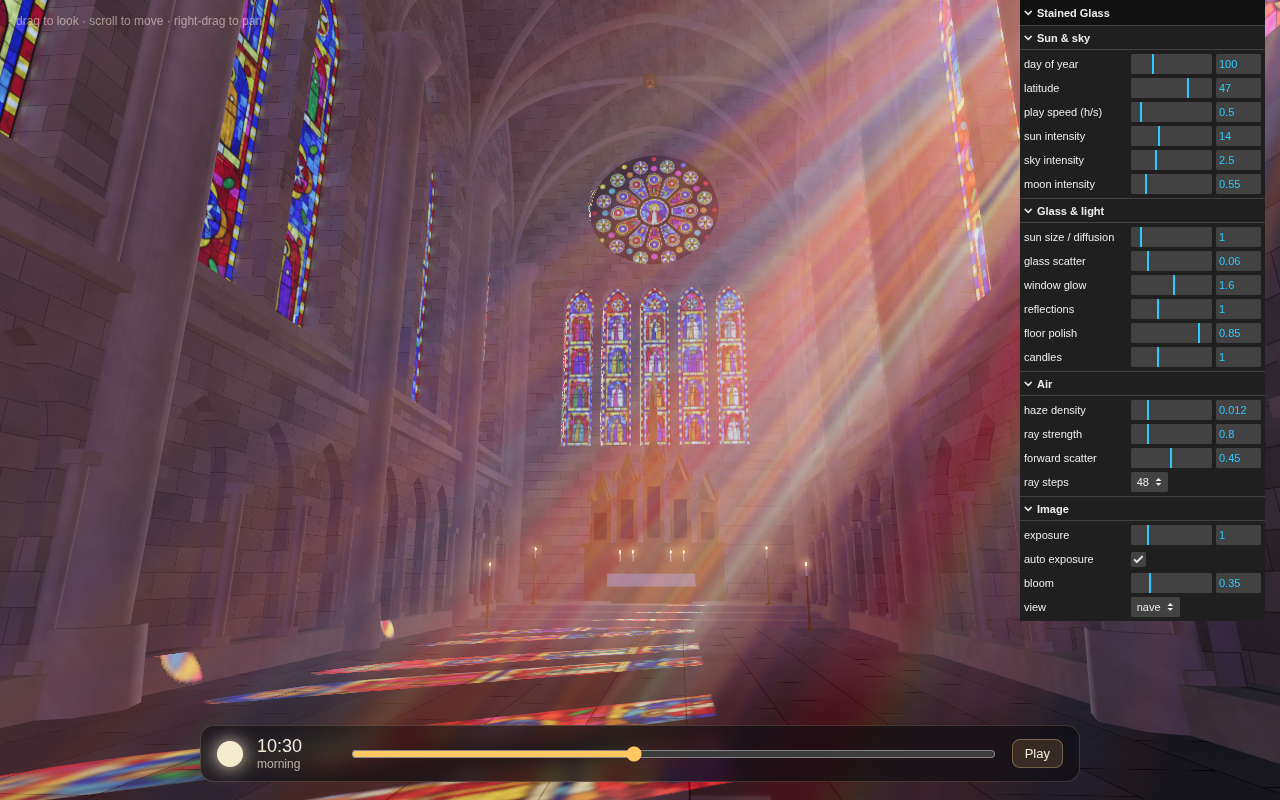
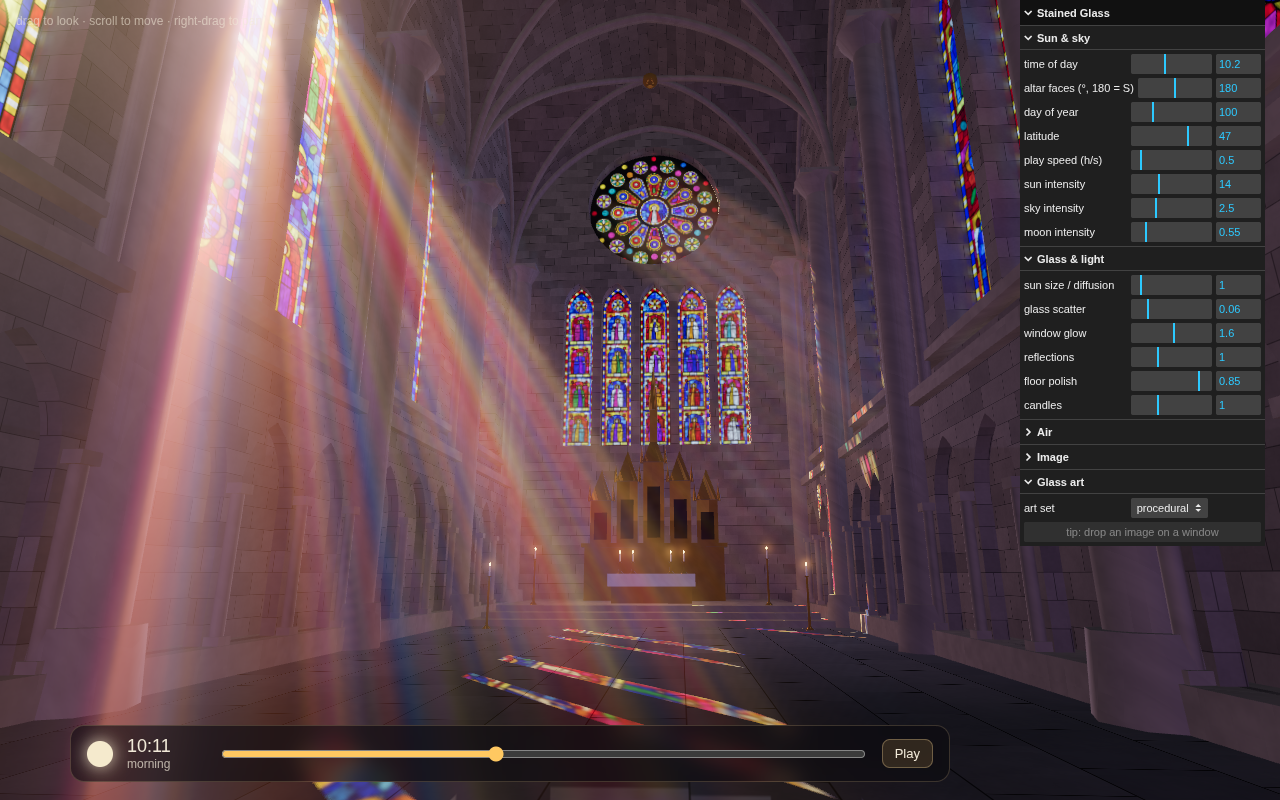
Fix black-frame flicker, add image glass slots, altar heading and panel time slider
- NaN from pow()/normalize() in the surface shader was smeared across the
  frame by bloom; guard the math and sanitise before bloom
- windows can show pictures: art sets via public/glass/manifest.json and
  drag-and-drop onto a window
- altar faces south by default so side and altar windows all get sun
- time-of-day slider in the panel; bottom bar no longer runs under the panel

diff --git a/src/main.js b/src/main.js
@@ -15,6 +15,8 @@ const state = {
   time: num('t', 10.5),
   dayOfYear: num('day', 100),
   latitude: num('lat', 47),
+  altarHeading: num('heading', 180), // compass bearing the altar end faces: 180 = south
+  art: q.get('art') ?? 'auto',
   playing: q.get('play') === '1',
   speed: 0.5,           // hours per second
   sunIntensity: 14,
@@ -46,8 +48,10 @@ const maxTex = renderer.capabilities.maxTextureSize;
 let ppm = num('ppm', 128);
 const widest = Math.max(...WALLS.map((w) => w.band.w));
 ppm = Math.min(ppm, Math.floor(maxTex / widest));
+// slot id -> image, for windows that show a picture instead of the procedural design
+const glassImages = new Map();
 const textures = WALLS.map((w) => {
-  const tex = new THREE.CanvasTexture(paintWall(w, ppm));
+  const tex = new THREE.CanvasTexture(paintWall(w, ppm, glassImages));
   tex.colorSpace = THREE.SRGBColorSpace;
   tex.generateMipmaps = true;
   tex.minFilter = THREE.LinearMipmapLinearFilter;
@@ -68,8 +72,8 @@ camera.layers.enable(1);
 const VIEWS = {
   nave: [[-9.5, 1.8, 1.2], [16, 8.5, -0.3]],
   floor: [[-6, 9, -5.5], [6, 0, 3]],
-  south: [[-4, 2.2, -6], [4, 11, 8]],
-  west: [[17, 2.0, -1.5], [-24, 11, 0]],
+  side: [[-4, 2.2, -6], [4, 11, 8]],
+  entrance: [[17, 2.0, -1.5], [-24, 11, 0]],
   rose: [[8, 3, 0], [24, 19, 0]],
   low: [[-3, 0.9, -2.5], [20, 6, 1]],
 };
@@ -106,6 +110,10 @@ function phaseName(sky) {
 function applyLighting() {
   const sky = computeSky(state.time, state.dayOfYear, state.latitude);
   const intensity = sky.isSun ? state.sunIntensity : state.moonIntensity;
+  // compass (east, up, south) -> building frame (+X = altar end)
+  const hd = THREE.MathUtils.degToRad(state.altarHeading);
+  const aE = Math.sin(hd), aS = -Math.cos(hd);
+  sky.dir.set(sky.dir.x * aE + sky.dir.z * aS, sky.dir.y, -sky.dir.x * aS + sky.dir.z * aE);
   lightU.uLightDir.value.copy(sky.dir);
   lightU.uLightColor.value.copy(sky.color).multiplyScalar(intensity);
   lightU.uLightSpread.value = SUN_ANGULAR_DIAMETER * state.softness;
@@ -150,6 +158,8 @@ syncPlay();
 
 const gui = new GUI({ title: 'Stained Glass' });
 const fSun = gui.addFolder('Sun & sky');
+fSun.add(state, 'time', 0, 24, 0.01).name('time of day').listen().onChange(applyLighting);
+fSun.add(state, 'altarHeading', 0, 360, 1).name('altar faces (°, 180 = S)').onChange(applyLighting);
 fSun.add(state, 'dayOfYear', 1, 365, 1).name('day of year').onChange(applyLighting);
 fSun.add(state, 'latitude', 0, 66, 0.5).onChange(applyLighting);
 fSun.add(state, 'speed', 0.05, 4, 0.05).name('play speed (h/s)');
@@ -173,8 +183,81 @@ fCam.add(state, 'exposure', 0.2, 4, 0.01).onChange(applyLighting);
 fCam.add(state, 'autoExposure').name('auto exposure').onChange(applyLighting);
 fCam.add(state, 'bloom', 0, 1.5, 0.01).onChange(applyLighting);
 fCam.add({ view: q.get('view') ?? 'nave' }, 'view', Object.keys(VIEWS)).onChange(setView);
+fAir.close(); fCam.close();
 if (q.get('ui') === '0') { gui.hide(); document.getElementById('bar').style.display = 'none'; document.getElementById('hint').style.display = 'none'; }
 else if (window.innerWidth < 700) gui.close();
+
+// --- swappable glass art ---------------------------------------------------------
+// public/glass/manifest.json lists picture sets; a set maps slot ids (layout.js
+// groups: right-1..6, left-1..6, altar-lancets, altar-rose, entrance-lancets,
+// entrance-rose) to image files. "side" is a list cycled over the 12 side bays.
+const loadImage = (src) => new Promise((res, rej) => { const im = new Image(); im.onload = () => res(im); im.onerror = () => rej(new Error('cannot load ' + src)); im.src = src; });
+function repaint(walls = WALLS) {
+  for (const w of walls) { const i = WALLS.indexOf(w); paintWall(w, ppm, glassImages, textures[i].image); textures[i].needsUpdate = true; }
+}
+let manifest = { sets: {} };
+async function applyArtSet(name) {
+  glassImages.clear();
+  const set = manifest.sets[name];
+  if (set) {
+    const slots = set.slots ?? {};
+    const side = slots.side ?? [];
+    const jobs = [];
+    for (const w of WALLS) for (const g of w.groups) {
+      let file = slots[g.id];
+      const m = /^(right|left)-(\d+)$/.exec(g.id);
+      if (!file && m && side.length) file = side[(Number(m[2]) - 1 + (m[1] === 'left' ? Math.ceil(side.length / 2) : 0)) % side.length];
+      if (file) jobs.push(loadImage('./glass/' + file).then((im) => glassImages.set(g.id, im), (e) => console.warn(e.message)));
+    }
+    await Promise.all(jobs);
+  }
+  repaint();
+}
+const artCtl = { set: 'procedural' };
+const fArt = gui.addFolder('Glass art');
+let artDropdown = fArt.add(artCtl, 'set', ['procedural']).name('art set').onChange(applyArtSet);
+fArt.add({ hint() {} }, 'hint').name('tip: drop an image on a window').disable();
+fetch('./glass/manifest.json').then((r) => (r.ok ? r.json() : manifest)).then((m) => {
+  manifest = m?.sets ? m : { sets: {} };
+  const names = Object.keys(manifest.sets);
+  artDropdown = artDropdown.options(['procedural', ...names]).name('art set').onChange(applyArtSet);
+  const want = state.art === 'auto' ? (m.default ?? names[0]) : state.art;
+  if (want && manifest.sets[want]) { artCtl.set = want; artDropdown.updateDisplay(); return applyArtSet(want); }
+}).catch((e) => console.warn('glass manifest:', e.message)).finally(() => { window.__artReady = true; });
+
+// Which image slot (window group) is under a screen point?
+const raycaster = new THREE.Raycaster();
+raycaster.layers.set(1);
+function slotAt(clientX, clientY) {
+  const r = canvas.getBoundingClientRect();
+  raycaster.setFromCamera(new THREE.Vector2(((clientX - r.left) / r.width) * 2 - 1, -((clientY - r.top) / r.height) * 2 + 1), camera);
+  const hit = raycaster.intersectObjects(group.children.filter((m) => m.name.startsWith('glass-')), false)[0];
+  if (!hit) return null;
+  const wall = WALLS.find((w) => 'glass-' + w.name === hit.object.name);
+  const u = wall.band.u0 + hit.uv.x * wall.band.w, v = wall.band.v0 + hit.uv.y * wall.band.h;
+  let best = null, bd = Infinity;
+  for (const g of wall.groups) {
+    const dx = Math.max(g.rect.u0 - u, 0, u - g.rect.u1), dy = Math.max(g.rect.v0 - v, 0, v - g.rect.v1);
+    const d = dx * dx + dy * dy;
+    if (d < bd) { bd = d; best = g; }
+  }
+  return best && { wall, group: best };
+}
+async function setSlotImage(slotId, src) {
+  const wall = WALLS.find((w) => w.groups.some((g) => g.id === slotId));
+  if (!wall) throw new Error('unknown slot ' + slotId);
+  if (src) glassImages.set(slotId, await loadImage(src)); else glassImages.delete(slotId);
+  repaint([wall]);
+}
+window.addEventListener('dragover', (e) => e.preventDefault());
+window.addEventListener('drop', async (e) => {
+  e.preventDefault();
+  const file = [...(e.dataTransfer?.files ?? [])].find((f) => f.type.startsWith('image/'));
+  const slot = file && slotAt(e.clientX, e.clientY);
+  if (!slot) return;
+  const url = URL.createObjectURL(file);
+  try { await setSlotImage(slot.group.id, url); } finally { URL.revokeObjectURL(url); }
+});
 
 window.addEventListener('resize', () => {
   renderer.setSize(window.innerWidth, window.innerHeight, false);
@@ -205,4 +288,4 @@ applyLighting();
 frame();
 
 // hooks for automation / debugging
-window.__sg = { state, applyLighting, setView, camera, controls, pipeline, lightU, renderer };
+window.__sg = { state, applyLighting, setView, camera, controls, pipeline, lightU, renderer, setSlotImage, applyArtSet, slotAt };

diff --git a/src/glassArt.js b/src/glassArt.js
@@ -429,13 +429,53 @@ function glassGrain(ctx, W, H, rng) {
   ctx.restore();
 }
 
-/** Paint one wall's glass band. Returns a canvas of band.w*ppm x band.h*ppm px. */
-export function paintWall(wall, ppm) {
+function openingPath(ctx, o) {
+  if (o.type === 'lancet') { lancetPath(ctx, o.u, o.v0, o.w, o.vs); return; }
+  ctx.beginPath(); ctx.arc(o.cu, o.cv, o.r, 0, Math.PI * 2);
+}
+
+// One picture stretched (cover-fit) across a group of openings. The wall's U
+// axis runs right-to-left as seen from inside, so the picture is mirrored in u
+// to read the right way round from the nave.
+function drawImageGroup(p, group, img) {
+  const c = p.ctx;
+  const { u0, u1, v0, v1 } = group.rect;
+  const gw = u1 - u0, gh = v1 - v0;
+  const iw = img.naturalWidth ?? img.width, ih = img.naturalHeight ?? img.height;
+  const scale = Math.max(gw / iw, gh / ih);
+  const dw = iw * scale, dh = ih * scale;
+  for (const o of group.openings) {
+    c.save();
+    openingPath(c, o); c.clip();
+    c.translate(u0 + gw / 2, v0 + gh / 2);
+    c.scale(-1, -1); // canvas is v-up; mirror u for the inside view
+    c.imageSmoothingEnabled = true; c.imageSmoothingQuality = 'high';
+    c.drawImage(img, -dw / 2, -dh / 2, dw, dh);
+    c.restore();
+    // iron saddle bars and a lead edge keep it reading as a leaded window
+    c.save();
+    openingPath(c, o); c.clip();
+    if (o.type === 'lancet') {
+      const n = Math.max(2, Math.round((o.vs - o.v0) / 1.1));
+      for (let k = 1; k < n; k++) p.line(o.u, o.v0 + ((o.vs - o.v0) * k) / n, o.u + o.w, o.v0 + ((o.vs - o.v0) * k) / n, LEAD * 1.2);
+    }
+    openingPath(c, o); c.strokeStyle = '#000'; c.lineWidth = LEAD * 4; c.stroke();
+    c.restore();
+  }
+}
+
+/**
+ * Paint one wall's glass band into `canvas` (created if omitted).
+ * `images` maps a group id (see layout.js) to a loaded image; groups without
+ * one get the procedural design. Returns the canvas (band.w*ppm x band.h*ppm).
+ */
+export function paintWall(wall, ppm, images = null, canvas = null) {
   const { band } = wall;
   const W = Math.round(band.w * ppm), H = Math.round(band.h * ppm);
-  const canvas = document.createElement('canvas');
+  canvas ??= document.createElement('canvas');
   canvas.width = W; canvas.height = H;
   const ctx = canvas.getContext('2d');
+  ctx.setTransform(1, 0, 0, 1, 0, 0);
   ctx.fillStyle = '#000';
   ctx.fillRect(0, 0, W, H);
   // draw in wall metres, v up; canvas top row = band.v1 (texture flipY keeps v up)
@@ -444,12 +484,15 @@ export function paintWall(wall, ppm) {
 
   const rng = mulberry32(wall.seed * 7919 + 13);
   const p = new Painter(ctx, rng);
-  let li = 0, ri = 0;
+  let li = 0;
   for (const o of wall.openings) {
+    // the procedural art is always drawn so the random sequence (and so every
+    // other window) stays identical when one slot is swapped for a picture
     if (o.type === 'lancet') drawLancet(p, o, li++);
-    else if (o.rose) drawRose(p, o, wall.name === 'east' ? 0 : 1 + ri++ * 0);
+    else if (o.rose) drawRose(p, o, wall.name === 'altar' ? 0 : 1);
     else drawOculus(p, o);
   }
   glassGrain(ctx, W, H, rng);
+  if (images) for (const g of wall.groups) { const img = images.get(g.id); if (img) drawImageGroup(p, g, img); }
   return canvas;
 }

diff --git a/src/layout.js b/src/layout.js
@@ -5,8 +5,8 @@
 import * as THREE from 'three';
 
 export const DIM = {
-  L: 48,          // inner length (x: -24 .. 24), west -> east
-  W: 16,          // inner width  (z: -8 .. 8),  north -> south
+  L: 48,          // inner length (x: -24 .. 24), entrance -> altar
+  W: 16,          // inner width  (z: -8 .. 8),  left wall -> right wall (facing the altar)
   wallT: 1.2,     // wall thickness
   wallH: 28.5,
   bays: 6,
@@ -59,36 +59,34 @@ function westOpenings() {
 
 export const WALLS = [
   {
-    name: 'south', seed: 11,
+    name: 'right', seed: 11,
     origin: new THREE.Vector3(-L / 2 - wallT, 0, W / 2), U: X.clone(), V: Y.clone(),
     width: L + 2 * wallT, height: DIM.wallH,
     openings: sideOpenings(),
   },
   {
-    name: 'north', seed: 23,
+    name: 'left', seed: 23,
     origin: new THREE.Vector3(L / 2 + wallT, 0, -W / 2), U: X.clone().negate(), V: Y.clone(),
     width: L + 2 * wallT, height: DIM.wallH,
     openings: sideOpenings(),
   },
   {
-    name: 'east', seed: 37,
+    name: 'altar', seed: 37,
     origin: new THREE.Vector3(L / 2, 0, W / 2), U: Z.clone().negate(), V: Y.clone(),
     width: W, height: DIM.wallH,
     openings: eastOpenings(),
   },
   {
-    name: 'west', seed: 53,
+    name: 'entrance', seed: 53,
     origin: new THREE.Vector3(-L / 2, 0, -W / 2), U: Z.clone(), V: Y.clone(),
     width: W, height: DIM.wallH,
     openings: westOpenings(),
   },
 ];
 
-for (const w of WALLS) {
-  w.N = new THREE.Vector3().crossVectors(w.U, w.V); // outward
-  // Glass band: the sub-rectangle of the wall that one texture covers.
+function bounds(openings) {
   let u0 = Infinity, u1 = -Infinity, v0 = Infinity, v1 = -Infinity;
-  for (const o of w.openings) {
+  for (const o of openings) {
     if (o.type === 'lancet') {
       u0 = Math.min(u0, o.u); u1 = Math.max(u1, o.u + o.w);
       v0 = Math.min(v0, o.v0); v1 = Math.max(v1, o.vs + o.w * 0.8661);
@@ -97,6 +95,22 @@ for (const w of WALLS) {
       v0 = Math.min(v0, o.cv - o.r); v1 = Math.max(v1, o.cv + o.r);
     }
   }
+  return { u0, u1, v0, v1 };
+}
+
+for (const w of WALLS) {
+  w.N = new THREE.Vector3().crossVectors(w.U, w.V); // outward
+  // Image slots: groups of openings that one picture can be stretched across
+  // (a side bay = two lancets + oculus; the lancet row; the rose).
+  const sets = new Map();
+  for (const o of w.openings) {
+    const id = o.bay !== undefined ? `${w.name}-${o.bay + 1}` : `${w.name}-${o.rose ? 'rose' : 'lancets'}`;
+    if (!sets.has(id)) sets.set(id, []);
+    sets.get(id).push(o);
+  }
+  w.groups = [...sets].map(([id, openings]) => ({ id, openings, rect: bounds(openings) }));
+  // Glass band: the sub-rectangle of the wall that one texture covers.
+  const { u0, u1, v0, v1 } = bounds(w.openings);
   const pad = 0.25;
   w.band = { u0: u0 - pad, u1: u1 + pad, v0: v0 - pad, v1: v1 + pad };
   w.band.w = w.band.u1 - w.band.u0;

diff --git a/index.html b/index.html
@@ -9,8 +9,8 @@
     html, body { margin: 0; height: 100%; background: #050505; overflow: hidden; font-family: ui-sans-serif, system-ui, sans-serif; color: #f1e9d8; }
     canvas#view { display: block; width: 100vw; height: 100vh; touch-action: none; }
     #bar {
-      position: fixed; left: 50%; bottom: 18px; transform: translateX(-50%);
-      width: min(880px, calc(100vw - 32px)); box-sizing: border-box;
+      position: fixed; z-index: 20; left: 16px; right: 16px; bottom: 18px; margin: 0 auto;
+      max-width: 880px; box-sizing: border-box;
       display: flex; align-items: center; gap: 14px; padding: 10px 16px;
       background: rgba(12, 10, 14, 0.62); backdrop-filter: blur(10px);
       border: 1px solid rgba(255, 220, 160, 0.18); border-radius: 14px;
@@ -26,6 +26,8 @@
     #bar button:hover { background: rgba(255, 200, 97, 0.28); }
     #loading { position: fixed; inset: 0; display: grid; place-items: center; font-size: 14px; letter-spacing: 0.08em; opacity: 0.8; pointer-events: none; }
     #hint { position: fixed; left: 16px; top: 14px; font-size: 12px; opacity: 0.55; pointer-events: none; }
+    /* keep the bar clear of the controls panel on the right */
+    @media (min-width: 760px) { #bar { right: 276px; } }
     @media (max-width: 600px) { #phase, #hint { display: none; } }
   </style>
 </head>

diff --git a/src/sun.js b/src/sun.js
@@ -1,7 +1,6 @@
 // Sun / moon ephemeris (simplified) and atmosphere colour model.
-// World frame: +X = east, +Y = up, +Z = south. The nave runs west -> east,
-// so the altar window faces sunrise, the south wall takes the midday sun and
-// the west rose takes the evening sun, like a real oriented church.
+// Output frame: +X = east, +Y = up, +Z = south (compass). main.js rotates the
+// result into the building's frame according to which way the altar faces.
 import * as THREE from 'three';
 
 const DEG = Math.PI / 180;

diff --git a/README.md b/README.md
@@ -14,9 +14,47 @@ npm run dev
 npm run build    # static site in dist/
 ```
 
-URL parameters: `t` (hour), `day` (day of year), `lat`, `view` (`nave`, `floor`, `south`, `west`, `rose`, `low`), `play=1`, `ui=0`, `ppm` (glass texels per metre, default 128; lower it on weak GPUs), `dpr`.
+URL parameters: `t` (hour), `day` (day of year), `lat`, `heading` (compass bearing the altar faces), `art` (art set name or `procedural`), `view` (`nave`, `floor`, `side`, `entrance`, `rose`, `low`), `play=1`, `ui=0`, `ppm` (glass texels per metre, default 128; lower it on weak GPUs), `dpr`.
 
-`npm run shot -- <outDir> "t=12.5&view=floor" ...` takes headless screenshots (needs the dev server and Chrome).
+`npm run shot -- <outDir> "t=12.5&view=floor" ...` takes headless screenshots (needs the dev server and Chrome). `node tools/motion.mjs` and `node tools/flicker.mjs` drive the camera and fail-check every frame for black or NaN pixels.
+
+## Sun path and orientation
+
+The altar end faces **south** by default (`altar faces` slider, `heading` parameter). The morning sun then comes through the left wall, the midday sun straight through the altar windows down the nave, and the afternoon sun through the right wall, so every window wall gets its turn. Set it to 90 for a traditional east-facing church.
+
+## Your own glass
+
+Any window can show a picture instead of the generated design. Only the colours matter: bright, saturated images with dark outlines work best, because the image *is* the light filter.
+
+- **Drag and drop** an image file onto a window to replace it for the session.
+- **Art sets**: put files in `public/glass/` and list them in `public/glass/manifest.json`, then pick the set in the panel.
+
+```json
+{
+  "default": "neko",
+  "sets": {
+    "neko": {
+      "slots": {
+        "side": ["neko/side-1.webp", "neko/side-2.webp"],
+        "altar-lancets": "neko/altar-lancets.webp",
+        "altar-rose": "neko/altar-rose.webp",
+        "entrance-lancets": "neko/entrance-lancets.webp",
+        "entrance-rose": "neko/entrance-rose.webp"
+      }
+    }
+  }
+}
+```
+
+| Slot | Covers | Shape (w × h) |
+| --- | --- | --- |
+| `right-1` … `right-6`, `left-1` … `left-6` | one side bay: two lancets and the oculus above | 5.3 × 13.2 m, about 2:5 |
+| `side` | list of images cycled over all twelve side bays | same |
+| `altar-lancets` | the row of five lancets | 9.8 × 9.1 m, about 1:1 |
+| `altar-rose`, `entrance-rose` | rose window | 1:1 |
+| `entrance-lancets` | the row of four lancets | 7.5 × 5.5 m, about 4:3 |
+
+Images are scaled to cover the slot and cut by the stone, so one picture spans a whole group of openings.
 
 ## How the light works
 
@@ -38,7 +76,7 @@ E(P) = E_sun · shadow(P) · Π T_wall( hit(P, L) )
 
 **The windows themselves.** Seen from inside, glass shows `T · (sky + scattered sun)`, brighter toward the sun. The same function drives the glossy floor reflections (reflection ray against the wall planes, blur by roughness) and a soft coloured fill light from each wall, with no extra render passes.
 
-**Sun and moon.** `src/sun.js` computes solar position from time, day of year and latitude; the nave is oriented west to east. Air mass reddens the beam near the horizon. A full moon sits opposite the sun and takes over at night, with the exposure opening up.
+**Sun and moon.** `src/sun.js` computes solar position from time, day of year and latitude; `main.js` rotates it into the building's frame. Air mass reddens the beam near the horizon. A full moon sits opposite the sun and takes over at night, with the exposure opening up.
 
 ## Files
 
